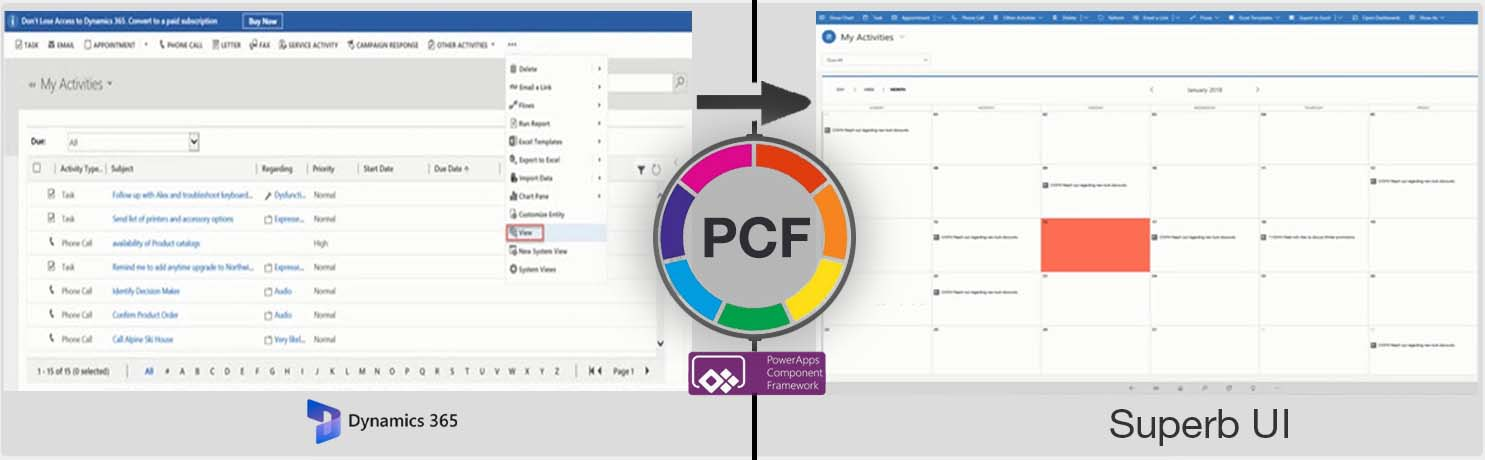
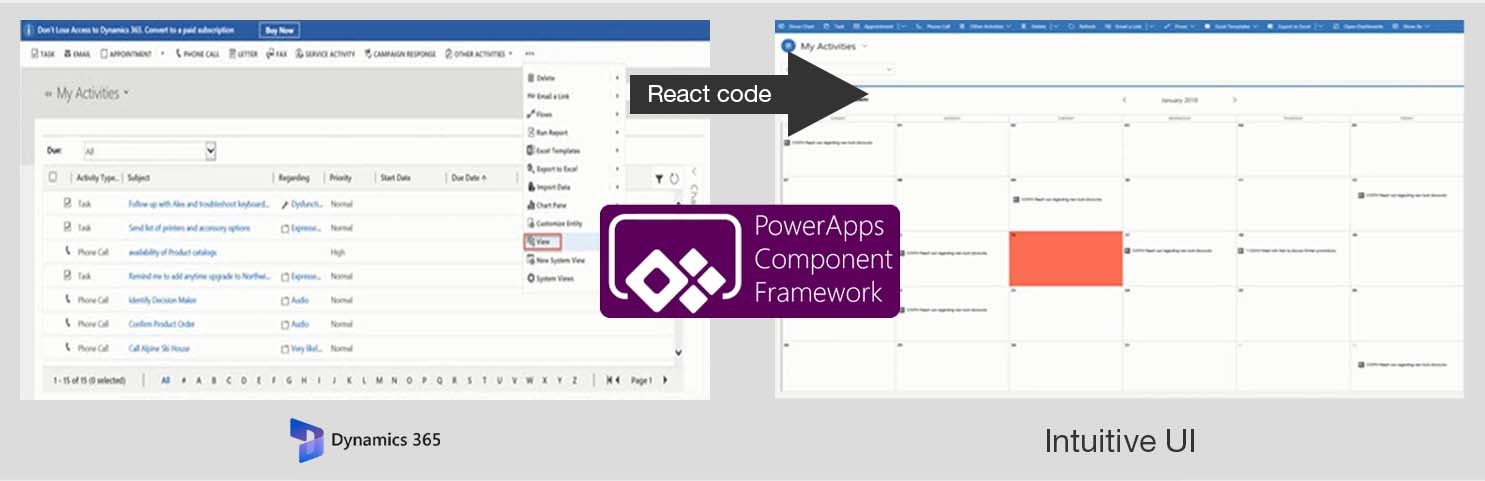
Update Rule “customize-dynamics-user-experience/rule”

diff --git a/rules/customize-dynamics-user-experience/rule.md b/rules/customize-dynamics-user-experience/rule.md
@@ -22,7 +22,7 @@ Use the power of [PCF controls](https://docs.microsoft.com/en-us/powerapps/devel
 
 PCF controls let you use your favourite web technologies to develop customized components. You can use React, Angular, Bootstrap, web apis and more 😎. You no longer have to worry about learning new and confusing frameworks, you've got the power back in your hands!
 
-![Figure: PCF controls add superb UI functionality, enhancing your Dynamics 365 Model Driven apps! ](ux_v4.jpg)
+![Figure: PCF controls helps you easily generate intuitive interfaces, enhancing your Dynamics 365 apps](ux_v4.jpg)
 
 [PCF Gallery](https://pcf.gallery/) is a fantastic place to find all kinds of PCF controls that fit different use cases.
 
